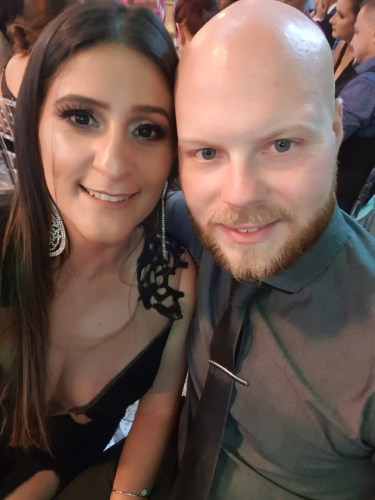
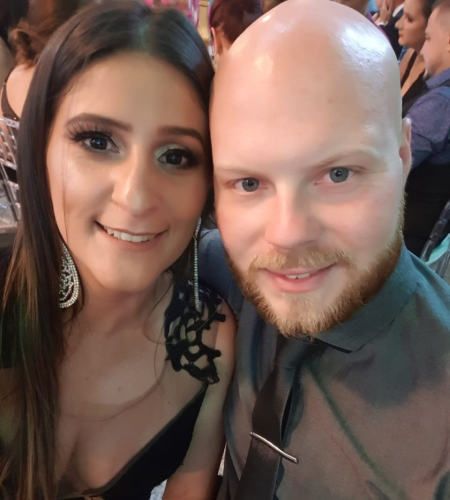
Update photo e og meta tag

diff --git a/app/routes/index.tsx b/app/routes/index.tsx
@@ -19,7 +19,7 @@ export const meta: MetaFunction = () => {
     description: "Convite de casamento",
     "og:title": "Gustavo & Kelly",
     "og:description": "Convite de casamento",
-    "og:image": "/images/ogimage.png",
+    "og:image": "https://casamento-convite.vercel.app//images/ogimage.png",
   };
 };
 
